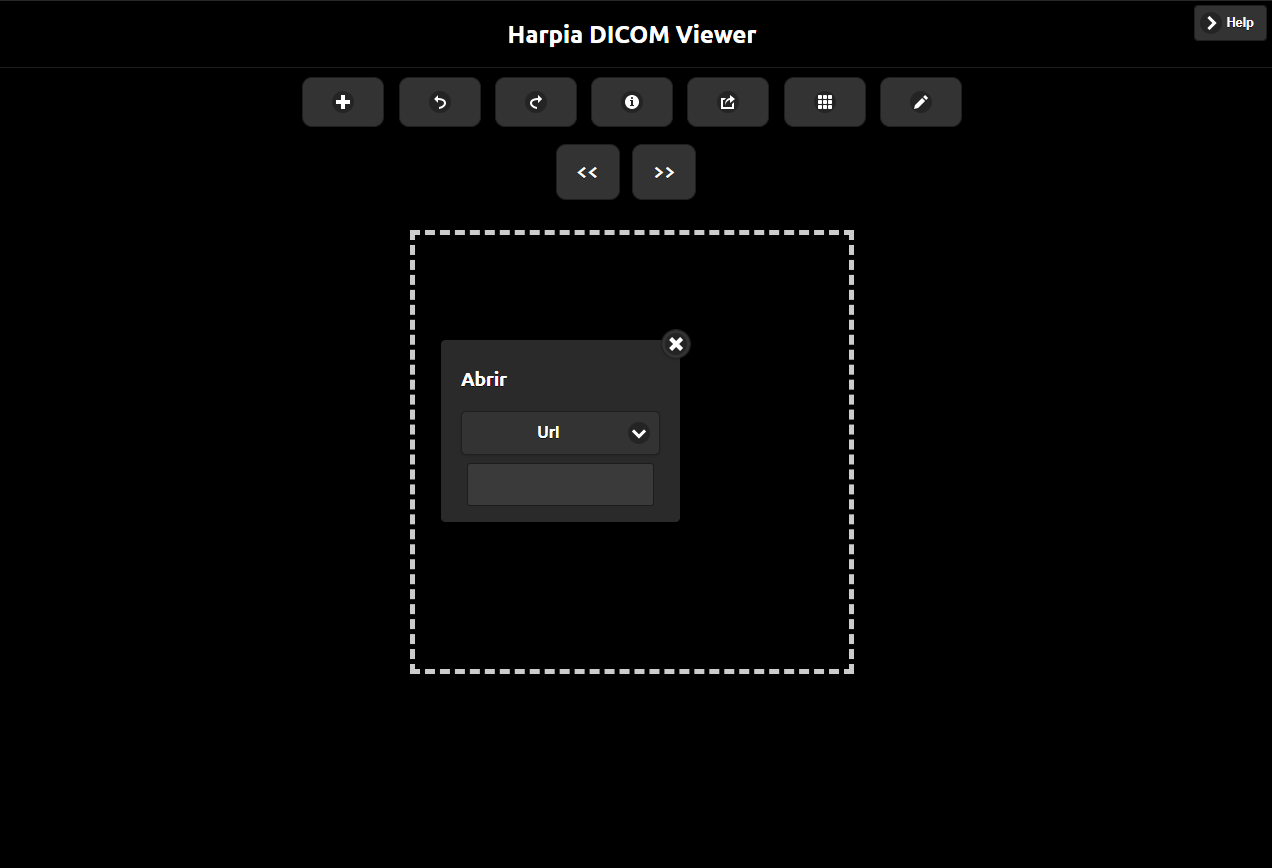
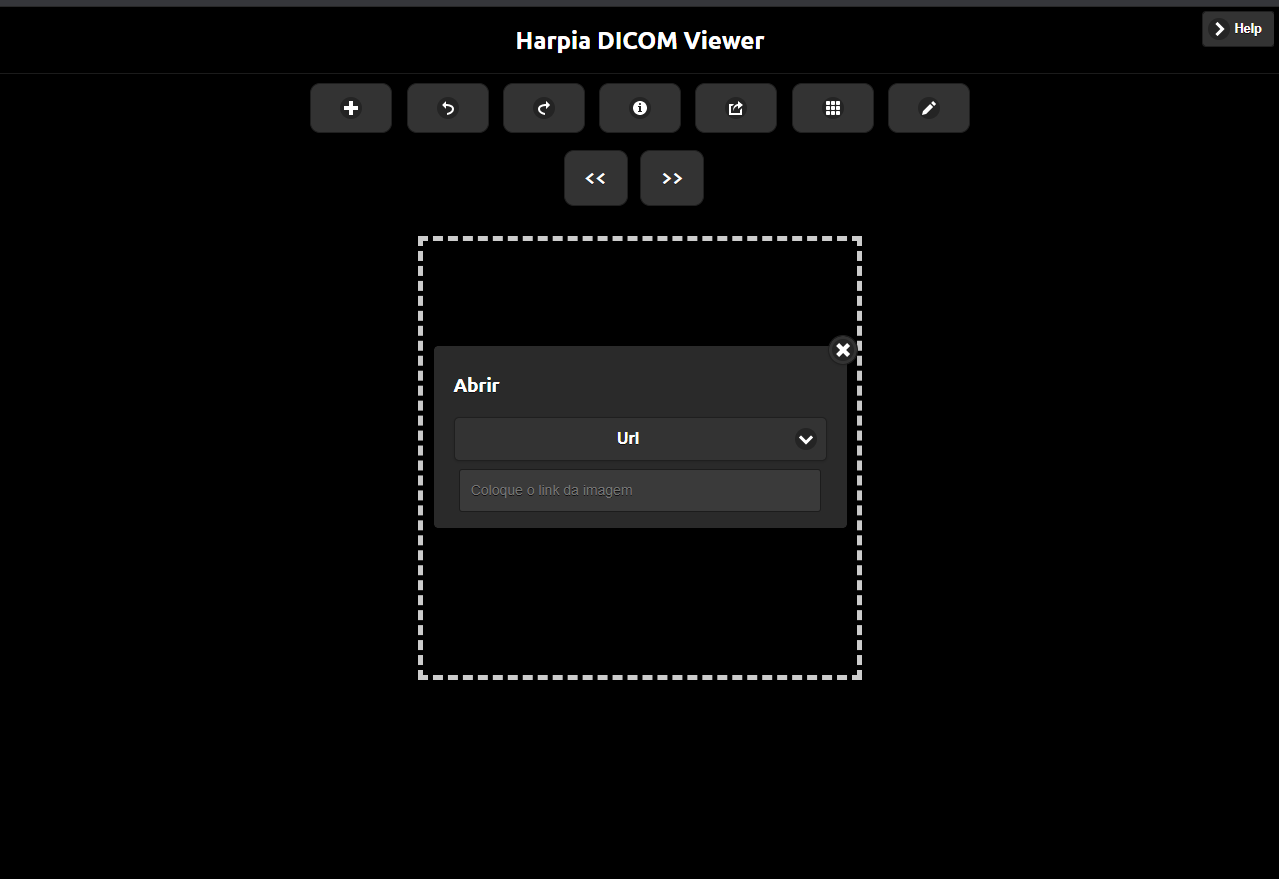
feat: Update README

Changed region(s): [[0.0, 0.0, 1.0, 0.7776], [0.4292, 0.5288, 0.4906, 0.5599]]

diff --git a/stable/src/gui/loader.js b/stable/src/gui/loader.js
@@ -350,7 +350,7 @@ dwvjq.gui.UrlLoad = function (app)
         var files_img = []
         var files_json = []
         var list_files = []
-        var list_urls = event.target.value.split(',')
+        var list_urls = event.target.value.replace(' ', '').split(',')
 
         app['xfiles'] = null
         app['xurlfiles'] = []
@@ -444,6 +444,7 @@ dwvjq.gui.UrlLoad = function (app)
         urlLoadInput.onchange = onchangeinternal;
         urlLoadInput.type = "url";
         urlLoadInput.className = "imageurl";
+        urlLoadInput.placeholder="Coloque o link da imagem"
         urlLoadInput.setAttribute("data-clear-btn","true");
         urlLoadInput.setAttribute("data-mini","true");
 

diff --git a/stable/css/style.css b/stable/css/style.css
@@ -122,3 +122,7 @@ div.ui-input-text.ui-body-inherit.ui-corner-all.ui-mini.ui-shadow-inset.ui-input
     padding: 5px;
     width: 350px;
 }
+
+input.imageurl{
+
+}

diff --git a/README.md b/README.md
@@ -1,8 +1,10 @@
+# README.md
+
 # Harpia DICOM Viewer
 
 Visualizador de imagens médicas fundamentado no DICOM Web Viewer (DWV) do [https://github.com/ivmartel](https://github.com/ivmartel)
 
-![images/readme/Untitled.png](images/readme/Untitled.png)
+![images/readme/Untitled%/Untitled.png](images/readme/Untitled%/Untitled.png)
 
 ### Rodar local
 
@@ -28,18 +30,66 @@ Com esse visualizador é possível carregar imagens locais ou remotas.
 
 ### Imagens locais:
 
-![images/readme/Untitled%201.png](images/readme/Untitled%201.png)
+![images/readme/Untitled%/Untitled%201.png](images/readme/Untitled%/Untitled%201.png)
 
 Selecione os arquivos de imagem que deseja carregar
 
-![images/readme/Untitled%202.png](images/readme/Untitled%202.png)
+Para carregar uma pasta,  é só selecionar pasta na janela acima e fazer o upload. Se estiver no chrome, haverá uma alerta perguntando se deseja fazer o upload realmente.
+
+As anotações do json são sincronizadas através dos nomes dos arquivos json e imagem
+
+![images/readme/Untitled%/Untitled%202.png](images/readme/Untitled%/Untitled%202.png)
 
 Se carregou mais de uma imagem, será possível apertar no botão para alterar a imagem
 
 ### Imagens remotas
 
-![images/readme/Untitled%203.png](images/readme/Untitled%203.png)
+![images/readme/Untitled%/Untitled%203.png](images/readme/Untitled%/Untitled%203.png)
 
 Para não existir problema com política de CORS, pode usar a seguinte URL no input
 
-[https://raw.githubusercontent.com/andre23arruda/dicom-viewer/gh-pages/images/pasta.png](https://raw.githubusercontent.com/andre23arruda/dicom-viewer/gh-pages/images/pasta.png),[https://raw.githubusercontent.com/andre23arruda/dicom-viewer/gh-pages/images/](https://raw.githubusercontent.com/andre23arruda/dicom-viewer/gh-pages/images/pasta.png)dicom_teste.dcm,[https://raw.githubusercontent.com/andre23arruda/dicom-viewer/gh-pages/images/](https://raw.githubusercontent.com/andre23arruda/dicom-viewer/gh-pages/images/pasta.png)pasta_annotations.json
+```html
+[https://raw.githubusercontent.com/andre23arruda/dicom-viewer/gh-pages/images/pasta.png](https://raw.githubusercontent.com/andre23arruda/dicom-viewer/gh-pages/images/pasta.png)  ,  [https://raw.githubusercontent.com/andre23arruda/dicom-viewer/gh-pages/images/](https://raw.githubusercontent.com/andre23arruda/dicom-viewer/gh-pages/images/pasta.png)dicom_teste.dcm,[https://raw.githubusercontent.com/andre23arruda/dicom-viewer/gh-pages/images/](https://raw.githubusercontent.com/andre23arruda/dicom-viewer/gh-pages/images/pasta.png)pasta_annotations.json
+```
+
+Para inserir mais de um link de arquivo, separe-os com vírgula
+
+![images/readme/Untitled%/Untitled%204.png](images/readme/Untitled%/Untitled%204.png)
+
+### Imagens remotas através de URI:
+
+Um exemplo para passar arquivos através da URI:
+
+```html
+https://andre23arruda.github.io/dicom-viewer/stable/index.html?input=https%3A%2F%2Fraw.githubusercontent.com%2Fandre23arruda%2Fdicom-viewer%2Fgh-pages%2Fimages%2F%3Ffile%3Dpasta.png%26file%3Dpasta.png%26file%3Ddicom_teste.dcm%26file%3Dpasta_annotations.json&dwvReplaceMode=void#&ui-state=dialog&ui-state=dialog&ui-state=dialog&ui-state=dialog
+```
+
+### Para passar links, eles devem estar encodados e no padrão:
+
+Base:
+
+```html
+[https://andre23arruda.github.io/dicom-viewer/stable/index.html?input=](https://andre23arruda.github.io/dicom-viewer/stable/index.html?input=)
+```
+
+- Se for apenas um arquivo, adicionar (apenas isso):
+
+    ```html
+    https%3A%2F%2Fraw.githubusercontent.com%2Fandre23arruda%2Fdicom-viewer%2Fgh-pages%2Fimages%2Fpasta.png
+    ```
+
+- Se for mais de um arquivo (link dos arquivos contendo a tag **file** + final):
+
+    Arquivos
+
+    ```html
+    %3Ffile%3Dpasta.png%26file%3Dpasta.png%26file%3Ddicom_teste.dcm%26file%3Dpasta_annotations.json
+    ```
+
+    Final (adicionar)
+
+    ```html
+    &dwvReplaceMode=void#&ui-state=dialog&ui-state=dialog&ui-state=dialog&ui-state=dialog
+    ```
+
+    Se tiver dificuldade em carregar vários arquivos, olha a URI do exemplo
